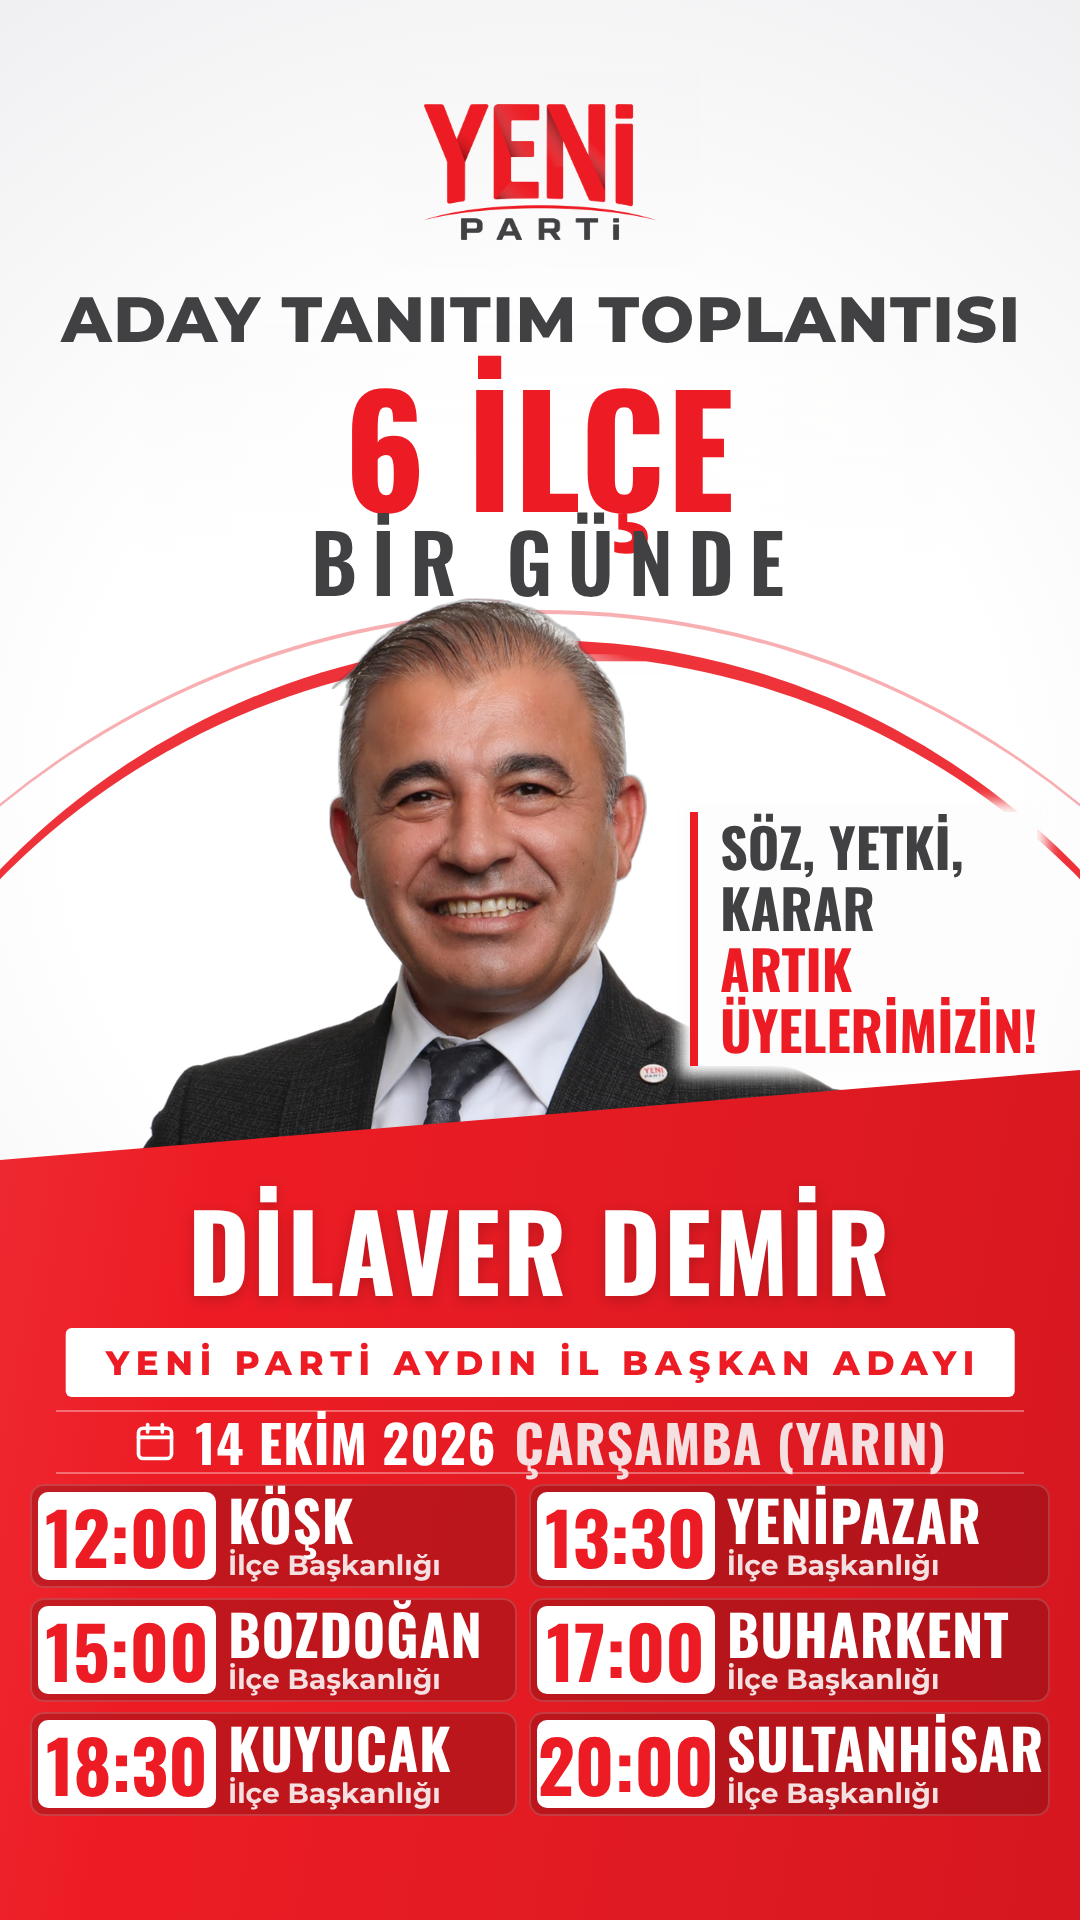
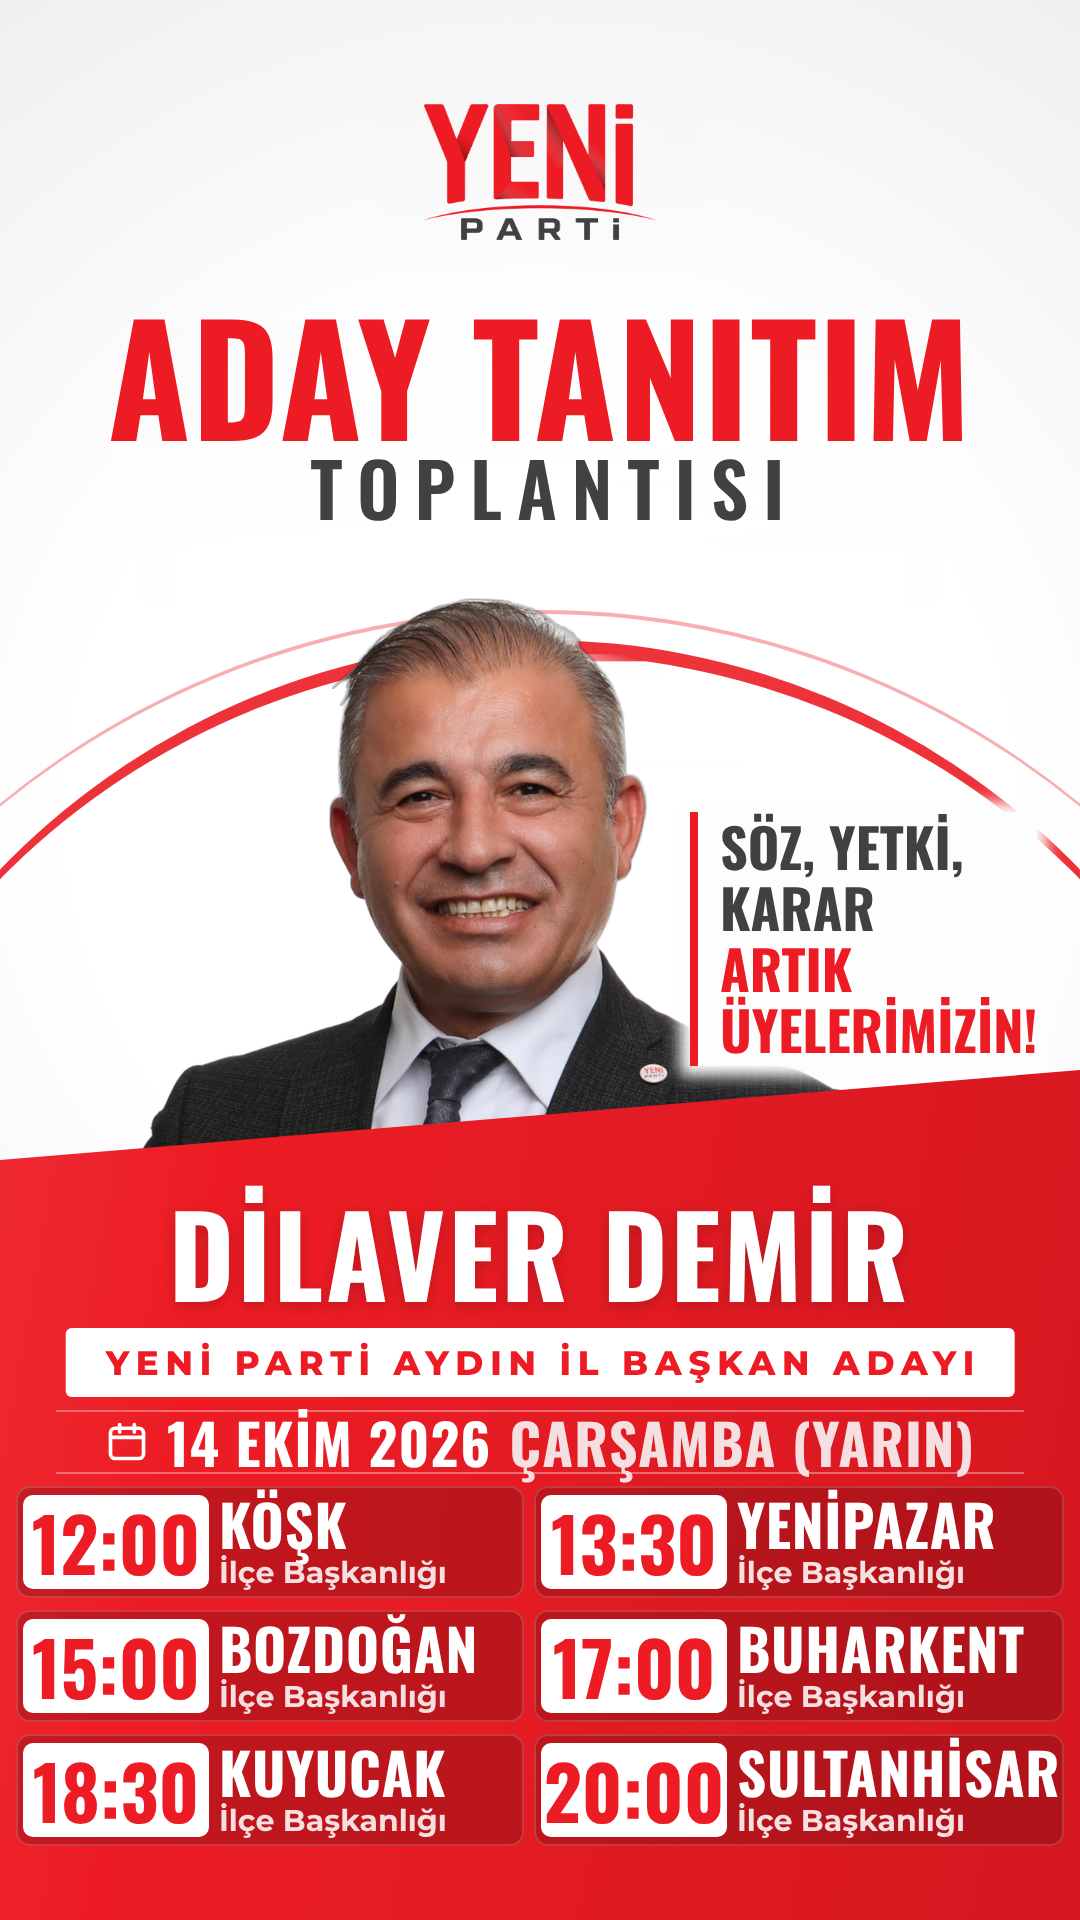
6 ilçe hikâyesi: gönderiyle aynı düzen, büyük başlık ve ilçeler
Claude-Session: https://claude.ai/code/session_01SatttGbgBLoCnk9KGLypWv

diff --git a/tasarim/kisisel/incirliova-orgut/alti-ilce-story.html b/tasarim/kisisel/incirliova-orgut/alti-ilce-story.html
@@ -1,0 +1,93 @@
+<!doctype html><html lang="tr"><meta charset="utf-8">
+<style>
+@font-face{font-family:O7;src:url(../../fontlar-gecici/Oswald-700.ttf)}
+@font-face{font-family:O6;src:url(../../fontlar-gecici/Oswald-600.ttf)}
+@font-face{font-family:M8;src:url(../../fontlar-gecici/Montserrat-800.ttf)}
+@font-face{font-family:M7;src:url(../../fontlar-gecici/Montserrat-700.ttf)}
+:root{--koyu:#414042;--kirmizi:#ED1C24;--etiket:#F6DFE0}
+html,body{margin:0;width:1080px;height:1920px;overflow:hidden}
+body{position:relative;background:url(zemin-kucuk.png) 0 0/1080px 1920px no-repeat}
+.m{position:absolute;left:0;width:1080px;text-align:center;white-space:nowrap;line-height:1}
+
+/* Kuşadası şablonundan ölçülen değerler */
+.ust{top:var(--t1);font:64px M8;letter-spacing:.025em;padding-left:.025em;color:var(--koyu)}
+.sehir{top:var(--t2);font:var(--sehir-boy,150.6px) O7;letter-spacing:1.6px;color:var(--kirmizi)}
+.program{top:var(--t3);font:80.2px O6;letter-spacing:.186em;padding-left:.186em;color:var(--koyu)}
+
+.hap{position:absolute;z-index:2;left:50%;top:1328px;height:69px;transform:translateX(-50%);
+  background:#fff;border-radius:6px;display:flex;align-items:center;padding:0 40px;
+  font:var(--hap-boy,34px) M8;letter-spacing:var(--hap-ls,.2em);color:var(--kirmizi);white-space:nowrap}
+.hap span{margin-right:calc(-1*var(--hap-ls,.2em))}
+
+.kutu{position:absolute;box-sizing:border-box;border-radius:16px;
+  background:rgba(0,0,0,.18);box-shadow:inset 0 0 0 2px rgba(255,255,255,.16);
+  display:flex;align-items:center;gap:25px;padding-left:31px;color:#fff}
+.kutu svg{flex:none;width:62px;height:62px}
+.kutu small{display:block;font:26px M7;letter-spacing:.114em;color:var(--etiket);margin-bottom:8px}
+.kutu b{font:68px/1 O7;font-weight:normal}
+.kutu .gun{font:46px O7;letter-spacing:.02em;color:#fff;margin-left:14px}
+.kutu b.yer{display:block;font-size:var(--yer-boy,60px);line-height:1.14;white-space:nowrap}
+.kutu .sol{display:flex;flex-direction:column;align-items:center;gap:6px;flex:none}
+.kutu .sol small{margin:0}
+.slogan{position:absolute;left:var(--slogan-sol,690px);top:var(--slogan-ust,812px);
+  border-left:8px solid var(--kirmizi);padding:4px 0 6px 22px;white-space:nowrap;
+  font:54px/1.13 O7;letter-spacing:0;color:var(--koyu)}
+.slogan{background:#FDFDFD;box-shadow:0 0 14px 10px #FDFDFD}
+.slogan em{display:block;font-style:normal;color:var(--kirmizi)}
+.sehir .ve{color:var(--koyu);font-size:.62em;vertical-align:.16em;margin:0 .06em}
+.tarih-bant{position:absolute;z-index:2;left:56px;right:56px;top:1410px;height:60px;display:flex;align-items:center;justify-content:center;gap:18px;
+  color:#fff;border-top:2px solid rgba(255,255,255,.35);border-bottom:2px solid rgba(255,255,255,.35)}
+.tarih-bant svg{width:44px;height:44px}
+.tarih-bant b{font:56px/1 O7;font-weight:normal;letter-spacing:.02em}
+.tarih-bant span{font:56px/1 O7;letter-spacing:.02em;color:var(--etiket)}
+.durak{position:absolute;left:40px;right:40px;height:122px;display:flex;align-items:center;gap:20px;
+  background:rgba(0,0,0,.18);box-shadow:inset 0 0 0 2px rgba(255,255,255,.16);border-radius:16px;padding:0 24px 0 10px;box-sizing:border-box;color:#fff}
+.durak .saat{flex:none;width:232px;height:106px;background:#fff;border-radius:10px;color:var(--kirmizi);
+  display:flex;flex-direction:column;align-items:center;justify-content:center;font:74px/1 O7}
+.durak .saat small{font:17px/1 M8;letter-spacing:.2em;color:var(--koyu);margin-bottom:3px}
+.durak .bilgi{display:flex;flex-direction:column;justify-content:center;min-width:0}
+.durak .bilgi b{font:54px/1 O7;font-weight:normal;letter-spacing:.02em}
+.durak .bilgi span{font:33px/1.12 M7;margin-top:4px;white-space:nowrap}
+.durak .bilgi i{font:22px/1.15 M7;font-style:normal;color:var(--etiket);white-space:nowrap}
+.ust-logo{position:absolute;left:50%;top:104px;width:232px;transform:translateX(-50%)}
+.izgara{position:absolute;z-index:2;left:16px;right:16px;top:1486px;display:grid;grid-template-columns:1fr 1fr;gap:12px 10px}
+.kart{height:112px;display:flex;align-items:center;gap:10px;padding:0 4px 0 7px;box-sizing:border-box;border-radius:14px;
+  background:rgba(0,0,0,.18);box-shadow:inset 0 0 0 2px rgba(255,255,255,.16);color:#fff}
+.kart .saat{flex:none;width:186px;height:94px;border-radius:10px;background:#fff;color:var(--kirmizi);
+  display:flex;align-items:center;justify-content:center;font:74px/1 O7}
+.kart .yer{display:flex;flex-direction:column;min-width:0}
+.kart b{font:57px/1 O7;font-weight:normal;letter-spacing:.01em;white-space:nowrap}
+.kart span{font:30px/1.05 M7;margin-top:5px;white-space:nowrap;color:var(--etiket)}
+.panel{position:absolute;z-index:1;left:0;right:0;top:0;bottom:0;
+  background:linear-gradient(100deg,#EF343C 0%,#ED1C24 30%,#E31B23 60%,#D5171F 100%);
+  clip-path:polygon(0 1160px,1080px 1070px,1080px 1920px,0 1920px)}
+.isim{z-index:2;top:1168px;font:112px O7;letter-spacing:2.7px;color:#fff;text-shadow:0 4px 14px rgba(0,0,0,.18)}
+.baslik1{top:262px;font:150px O7;color:var(--kirmizi);letter-spacing:.01em}
+.baslik2{top:432px;font:74px O6;color:var(--koyu);letter-spacing:.2em;padding-left:.2em}
+</style>
+<body style="--t1:var(--T1,280px);--t2:var(--T2,332px);--t3:var(--T3,500px)">
+
+<img class="ust-logo" src="yp-logo-kirpik.png">
+<div class="m baslik1">ADAY TANITIM</div>
+<div class="m baslik2">TOPLANTISI</div>
+
+<div class="slogan">SÖZ, YETKİ,<br>KARAR<em>ARTIK<br>ÜYELERİMİZİN!</em></div>
+
+<div class="panel"></div>
+<div class="m isim">DİLAVER DEMİR</div>
+<div class="hap"><span>YENİ PARTİ AYDIN İL BAŞKAN ADAYI</span></div>
+
+<div class="tarih-bant">
+  <svg viewBox="0 0 24 24" fill="none" stroke="#fff" stroke-width="2" stroke-linecap="round" stroke-linejoin="round">
+    <rect x="3" y="4.5" width="18" height="16.5" rx="2.5"/><path d="M3 9.5h18M8 2.5v4M16 2.5v4"/></svg>
+  <b>14 EKİM 2026</b><span>ÇARŞAMBA (YARIN)</span>
+</div>
+<div class="izgara">
+  <div class="kart"><div class="saat">12:00</div><div class="yer"><b>KÖŞK</b><span>İlçe Başkanlığı</span></div></div>
+  <div class="kart"><div class="saat">13:30</div><div class="yer"><b>YENİPAZAR</b><span>İlçe Başkanlığı</span></div></div>
+  <div class="kart"><div class="saat">15:00</div><div class="yer"><b>BOZDOĞAN</b><span>İlçe Başkanlığı</span></div></div>
+  <div class="kart"><div class="saat">17:00</div><div class="yer"><b>BUHARKENT</b><span>İlçe Başkanlığı</span></div></div>
+  <div class="kart"><div class="saat">18:30</div><div class="yer"><b>KUYUCAK</b><span>İlçe Başkanlığı</span></div></div>
+  <div class="kart"><div class="saat">20:00</div><div class="yer"><b>SULTANHİSAR</b><span>İlçe Başkanlığı</span></div></div>
+</div>
+</body></html>
